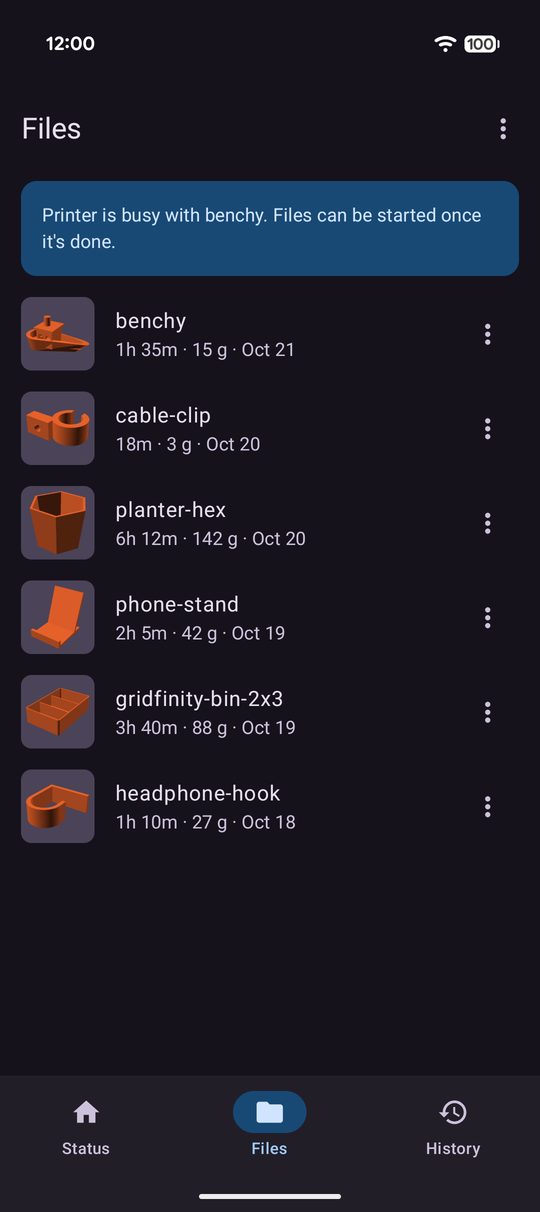
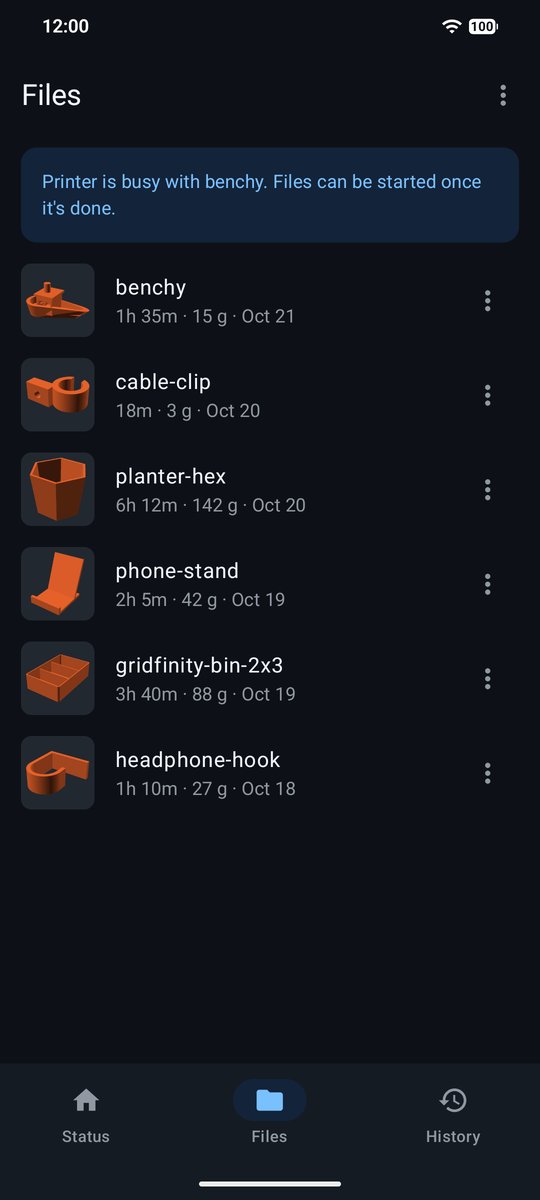
GitHub colours (Primer, light and dark) instead of Material You; outlined status cards; README credits elegoo-link for Canvas

diff --git a/app/src/main/java/app/centauri/remote/Theme.kt b/app/src/main/java/app/centauri/remote/Theme.kt
@@ -1,0 +1,66 @@
+package app.centauri.remote
+
+import androidx.compose.foundation.isSystemInDarkTheme
+import androidx.compose.foundation.layout.fillMaxSize
+import androidx.compose.material3.MaterialTheme
+import androidx.compose.material3.Surface
+import androidx.compose.material3.darkColorScheme
+import androidx.compose.material3.lightColorScheme
+import androidx.compose.runtime.Composable
+import androidx.compose.ui.Modifier
+import androidx.compose.ui.graphics.Color
+
+// GitHub's Primer palette (light and dark default) mapped onto Material 3 roles: canvas for the
+// background, "subtle" canvas for cards, accent blue as primary, attention yellow for things in
+// progress (heating), danger red for errors.
+private val GitHubLight = lightColorScheme(
+    primary = Color(0xFF0969DA), onPrimary = Color.White,
+    primaryContainer = Color(0xFFDDF4FF), onPrimaryContainer = Color(0xFF0A3069),
+    inversePrimary = Color(0xFF4493F8),
+    secondary = Color(0xFF59636E), onSecondary = Color.White,
+    secondaryContainer = Color(0xFFDDF4FF), onSecondaryContainer = Color(0xFF0A3069),
+    tertiary = Color(0xFF9A6700), onTertiary = Color.White,
+    tertiaryContainer = Color(0xFFFFF8C5), onTertiaryContainer = Color(0xFF4D2D00),
+    error = Color(0xFFD1242F), onError = Color.White,
+    errorContainer = Color(0xFFFFEBE9), onErrorContainer = Color(0xFF82071E),
+    background = Color.White, onBackground = Color(0xFF1F2328),
+    surface = Color.White, onSurface = Color(0xFF1F2328),
+    surfaceVariant = Color(0xFFF6F8FA), onSurfaceVariant = Color(0xFF59636E),
+    surfaceTint = Color(0xFF0969DA),
+    inverseSurface = Color(0xFF25292E), inverseOnSurface = Color.White,
+    outline = Color(0xFFD1D9E0), outlineVariant = Color(0xFFD1D9E0),
+    surfaceBright = Color.White, surfaceDim = Color(0xFFEFF2F5),
+    surfaceContainerLowest = Color.White, surfaceContainerLow = Color(0xFFF6F8FA),
+    surfaceContainer = Color(0xFFF6F8FA), surfaceContainerHigh = Color(0xFFF6F8FA),
+    surfaceContainerHighest = Color(0xFFF6F8FA),
+)
+
+private val GitHubDark = darkColorScheme(
+    primary = Color(0xFF4493F8), onPrimary = Color(0xFF0D1117),
+    primaryContainer = Color(0xFF1F6FEB), onPrimaryContainer = Color.White,
+    inversePrimary = Color(0xFF0969DA),
+    secondary = Color(0xFF9198A1), onSecondary = Color(0xFF0D1117),
+    secondaryContainer = Color(0xFF132339), onSecondaryContainer = Color(0xFF79C0FF),
+    tertiary = Color(0xFFD29922), onTertiary = Color(0xFF0D1117),
+    tertiaryContainer = Color(0xFF2E2111), onTertiaryContainer = Color(0xFFE3B341),
+    error = Color(0xFFF85149), onError = Color(0xFF0D1117),
+    errorContainer = Color(0xFF3C1618), onErrorContainer = Color(0xFFFFA198),
+    background = Color(0xFF0D1117), onBackground = Color(0xFFF0F6FC),
+    surface = Color(0xFF0D1117), onSurface = Color(0xFFF0F6FC),
+    surfaceVariant = Color(0xFF212830), onSurfaceVariant = Color(0xFF9198A1),
+    surfaceTint = Color(0xFF4493F8),
+    inverseSurface = Color(0xFFF0F6FC), inverseOnSurface = Color(0xFF0D1117),
+    outline = Color(0xFF3D444D), outlineVariant = Color(0xFF3D444D),
+    surfaceBright = Color(0xFF212830), surfaceDim = Color(0xFF010409),
+    surfaceContainerLowest = Color(0xFF010409), surfaceContainerLow = Color(0xFF151B23),
+    surfaceContainer = Color(0xFF151B23), surfaceContainerHigh = Color(0xFF151B23),
+    surfaceContainerHighest = Color(0xFF151B23),
+)
+
+/** GitHub's colours, light or dark following the system. */
+@Composable
+fun CentauriTheme(content: @Composable () -> Unit) {
+    MaterialTheme(colorScheme = if (isSystemInDarkTheme()) GitHubDark else GitHubLight) {
+        Surface(Modifier.fillMaxSize(), content = content)
+    }
+}

diff --git a/app/src/main/java/app/centauri/remote/StatusScreen.kt b/app/src/main/java/app/centauri/remote/StatusScreen.kt
@@ -5,6 +5,7 @@ import android.graphics.Bitmap
 import android.widget.Toast
 import androidx.activity.compose.LocalActivity
 import androidx.compose.foundation.Image
+import androidx.compose.foundation.BorderStroke
 import androidx.compose.foundation.background
 import androidx.compose.foundation.border
 import androidx.compose.foundation.clickable
@@ -101,7 +102,7 @@ fun StatusScreen(
         JobCard(c, s, onChooseFile)
         TempsCard(s)
         CanvasCard(c)
-        Card(Modifier.fillMaxWidth()) {
+        Card(Modifier.fillMaxWidth(), border = cardBorder()) {
             ListItem(
                 headlineContent = { Text(stringResource(R.string.chamber_light)) },
                 leadingContent = { Icon(painterResource(R.drawable.ic_lightbulb), null) },
@@ -199,7 +200,7 @@ fun CameraView(
         }
     }
     if (fullscreen) surface(Modifier.fillMaxSize().background(Color.Black))
-    else Card(Modifier.fillMaxWidth(), shape = MaterialTheme.shapes.large) {
+    else Card(Modifier.fillMaxWidth(), border = cardBorder(), shape = MaterialTheme.shapes.large) {
         surface(Modifier.fillMaxWidth().aspectRatio(16f / 9f).background(Color.Black))
     }
 }
@@ -258,7 +259,7 @@ private fun JobCard(c: PrinterLink, st: Status, onChooseFile: () -> Unit) {
     val name = jobName(p.file)
     val thumb by c.thumbnail.collectAsStateWithLifecycle()
     var confirm by remember { mutableStateOf<Confirm?>(null) }
-    Card(Modifier.fillMaxWidth(), shape = MaterialTheme.shapes.large) {
+    Card(Modifier.fillMaxWidth(), border = cardBorder(), shape = MaterialTheme.shapes.large) {
         Column(Modifier.padding(16.dp), verticalArrangement = Arrangement.spacedBy(12.dp)) {
             if (p.file.isEmpty() || s == PrintState.IDLE) {
                 Text(
@@ -370,7 +371,7 @@ private class Confirm(
 
 @Composable
 private fun TempsCard(st: Status) {
-    Card(Modifier.fillMaxWidth()) {
+    Card(Modifier.fillMaxWidth(), border = cardBorder()) {
         Row(Modifier.padding(16.dp)) {
             Temp(stringResource(R.string.nozzle), st.nozzle, st.nozzleTarget, Modifier.weight(1f))
             Temp(stringResource(R.string.bed), st.bed, st.bedTarget, Modifier.weight(1f))
@@ -384,7 +385,7 @@ private fun TempsCard(st: Status) {
 private fun CanvasCard(c: PrinterLink) {
     val canvas by c.canvas.collectAsStateWithLifecycle()
     val cv = canvas ?: return
-    Card(Modifier.fillMaxWidth()) {
+    Card(Modifier.fillMaxWidth(), border = cardBorder()) {
         Column(Modifier.padding(16.dp), verticalArrangement = Arrangement.spacedBy(12.dp)) {
             Text(stringResource(R.string.canvas), style = MaterialTheme.typography.labelMedium, color = MaterialTheme.colorScheme.onSurfaceVariant)
             Row {
@@ -426,6 +427,10 @@ fun trayDescription(t: Tray, active: Boolean): String {
         else listOf(t.brand, t.name.ifEmpty { t.type }).filter { it.isNotEmpty() }.joinToString(" ").ifEmpty { "–" }
     return listOfNotNull(t.label, what, if (active) stringResource(R.string.tray_in_use) else null).joinToString(", ")
 }
+
+/** GitHub-style 1 dp outline around the status cards. */
+@Composable
+private fun cardBorder() = BorderStroke(1.dp, MaterialTheme.colorScheme.outline)
 
 /** "250 °C" at target; the target appears only while heating or cooling toward it. */
 @Composable

diff --git a/app/src/main/java/app/centauri/remote/MainActivity.kt b/app/src/main/java/app/centauri/remote/MainActivity.kt
@@ -15,7 +15,6 @@ import androidx.activity.compose.setContent
 import androidx.activity.enableEdgeToEdge
 import androidx.activity.result.contract.ActivityResultContracts
 import androidx.compose.foundation.background
-import androidx.compose.foundation.isSystemInDarkTheme
 import androidx.compose.foundation.layout.Arrangement
 import androidx.compose.foundation.layout.Box
 import androidx.compose.foundation.layout.BoxWithConstraints
@@ -53,14 +52,9 @@ import androidx.compose.material3.OutlinedButton
 import androidx.compose.material3.OutlinedCard
 import androidx.compose.material3.OutlinedTextField
 import androidx.compose.material3.Scaffold
-import androidx.compose.material3.Surface
 import androidx.compose.material3.Text
 import androidx.compose.material3.TextButton
 import androidx.compose.material3.TopAppBar
-import androidx.compose.material3.darkColorScheme
-import androidx.compose.material3.dynamicDarkColorScheme
-import androidx.compose.material3.dynamicLightColorScheme
-import androidx.compose.material3.lightColorScheme
 import androidx.compose.runtime.Composable
 import androidx.compose.runtime.LaunchedEffect
 import androidx.compose.runtime.getValue
@@ -106,19 +100,6 @@ class MainActivity : ComponentActivity() {
         enableEdgeToEdge()
         setContent { CentauriTheme { App() } }
     }
-}
-
-/** Follows the phone: light/dark from the system, Material You colours on Android 12+. */
-@Composable
-fun CentauriTheme(content: @Composable () -> Unit) {
-    val dark = isSystemInDarkTheme()
-    val ctx = LocalContext.current
-    val scheme = when {
-        Build.VERSION.SDK_INT >= Build.VERSION_CODES.S -> if (dark) dynamicDarkColorScheme(ctx) else dynamicLightColorScheme(ctx)
-        dark -> darkColorScheme()
-        else -> lightColorScheme()
-    }
-    MaterialTheme(colorScheme = scheme) { Surface(Modifier.fillMaxSize(), content = content) }
 }
 
 @Composable

diff --git a/app/src/main/java/app/centauri/remote/Protocol.kt b/app/src/main/java/app/centauri/remote/Protocol.kt
@@ -12,7 +12,8 @@ import java.nio.ByteBuffer
 
 // SDCP over WebSocket, Centauri Carbon (CC1) only. Command ids and payloads mirror
 // elegoo-homeassistant's sdcp/const.py and sdcp/transport/base.py; start print, file list
-// and file info follow the printer's own web UI (it serves them at http://<printer>/).
+// and file info follow the printer's own web UI (it serves them at http://<printer>/); Canvas
+// (Cmd 324, slot_map) follows Elegoo's own elegoo-link client.
 // Everything in this file is pure (no I/O) so it can be unit-tested on the JVM.
 const val CMD_STATUS = 0
 const val CMD_ATTRIBUTES = 1

diff --git a/README.md b/README.md
@@ -27,7 +27,7 @@ Screenshots are from the built-in demo mode, so you can try the app without a pr
   stops or fails, with the reason when the printer reports one (filament ran out, jam, print came
   loose...), and when the app loses contact with the printer mid-print
 - **Demo mode**: try every screen with a simulated printer (no hardware needed)
-- Follows the system light/dark theme and Material You colours
+- GitHub colours, light or dark following the system
 - **Tablets and foldables**: navigation rail, camera beside the status, list and detail side by
   side for files and history
 - **Languages**: English, Dutch and Greek (per-app language on Android 13+)
@@ -85,7 +85,9 @@ Release builds are unsigned unless a `keystore.properties` file (not tracked) pr
 
 Command payloads follow the
 [elegoo-homeassistant](https://github.com/danielcherubini/elegoo-homeassistant) integration; start
-print, file list and file info follow the printer's own web interface.
+print, file list and file info follow the printer's own web interface; Canvas trays and the tray
+to print from (`slot_map`) follow Elegoo's own
+[elegoo-link](https://github.com/elegooofficial/elegoo-link) client.
 
 ## License
 
